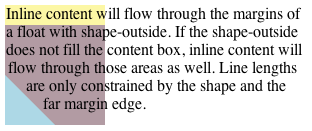
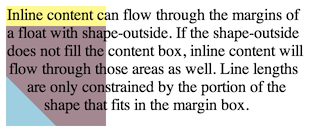
[css-shapes] remove furthest margin constraint

Changed region(s): [[0.0, 0.0305, 0.9808, 0.9771], [0.0865, 0.7328, 0.1154, 0.7939], [0.1442, 0.8855, 0.1731, 0.916]]

diff --git a/css-shapes/Overview.html b/css-shapes/Overview.html
@@ -12,7 +12,7 @@
    rel=dcterms.rights>
   <meta content="CSS Shapes Module Level 1" name=dcterms.title>
   <meta content=text name=dcterms.type>
-  <meta content=2013-07-19 name=dcterms.date>
+  <meta content=2013-09-10 name=dcterms.date>
   <meta content="Vincent Hardy" name=dcterms.creator>
   <meta content="Rossen Atanassov" name=dcterms.creator>
   <meta content="Alan Stearns" name=dcterms.creator>
@@ -51,7 +51,8 @@
 
    <h1 id=css-shapes-module>CSS Shapes Module Level 1</h1>
 
-   <h2 class="no-num no-toc" id=longstatus-date>Editor's Draft 19 July 2013</h2>
+   <h2 class="no-num no-toc" id=longstatus-date>Editor's Draft 10 September
+    2013</h2>
 
    <dl>
     <dt>This version:
@@ -100,10 +101,11 @@
      …</var></kbd>” (<a
      href="http://lists.w3.org/Archives/Public/www-style/"
      rel=discussion>archives</a>)
-     
-     <dt>Test Suite:</dt>
-     <dd><a href="http://test.csswg.org/suites/css3-shapes/nightly-unstable/">http://test.csswg.org/suites/css3-regions/nightly-unstable/</a></dd>
-     
+
+    <dt>Test Suite:
+
+    <dd><a
+     href="http://test.csswg.org/suites/css3-shapes/nightly-unstable/">http://test.csswg.org/suites/css3-regions/nightly-unstable/</a>
    </dl>
    <!--begin-copyright-->
    <p class=copyright><a
@@ -293,12 +295,8 @@
   <p> When a shape is used to define a <a href="#float-area">float area</a>,
    the shape is clipped to the float's margin box. In other words, a shape
    can only ever reduce a <a href="#float-area">float area</a>, not increase
-   it. When a shape reduces a <a href="#float-area">float area</a> such that
-   a line box that would be normally be affected by the float would not
-   intersect the <a href="#float-area">float area</a> at all, the available
-   space for the line box is constrained by the farthest margin edge of the
-   float. For a left float this would be the left margin edge, and for a
-   right float this would be the right margin edge.
+   it. A reduced float area may have no effect on some line boxes that would
+   normally be affected by the float.
 
   <div class=example>
    <p> In the following example the left and right floating <code
@@ -351,8 +349,7 @@
   <div class=example>
    <p> A shape with no extent will create a <a href="#float-area">float
     area</a> with no extent. The shape below applied to a left float will
-    allow inline content to flow through the float's box, but the line boxes
-    will be constrained by the float's left margin edge.
+    allow inline content to flow through the float's box.
 
    <p>
 
@@ -380,7 +377,7 @@
    class=singleImgExample src="images/float-margin-example.png">
    <p> The next picture shows a possible result if two of these floats were
     stacked next to each other.</p>
-   <img alt="Stacking two floats to show far margin edge constraint"
+   <img alt="Stacking two floats with a small shape-outside"
    class=singleImgExample src="images/stacked-float-example.png"></div>
 
   <h3 id=basic-shapes-from-svg-syntax><span class=secno>3.2. </span>Basic
@@ -1030,20 +1027,19 @@
    <dt id=CSS3VAL>[CSS3VAL]
 
    <dd>Håkon Wium Lie; Tab Atkins; Elika J. Etemad. <a
-    href="http://www.w3.org/TR/2013/CR-css3-values-20130404/"><cite>CSS
-    Values and Units Module Level 3.</cite></a> 4 April 2013. W3C Candidate
+    href="http://www.w3.org/TR/2013/CR-css3-values-20130730/"><cite>CSS
+    Values and Units Module Level 3.</cite></a> 30 July 2013. W3C Candidate
     Recommendation. (Work in progress.) URL: <a
-    href="http://www.w3.org/TR/2013/CR-css3-values-20130404/">http://www.w3.org/TR/2013/CR-css3-values-20130404/</a>
+    href="http://www.w3.org/TR/2013/CR-css3-values-20130730/">http://www.w3.org/TR/2013/CR-css3-values-20130730/</a>
    </dd>
    <!---->
 
    <dt id=HTML5>[HTML5]
 
-   <dd>Ian Hickson. <a
-    href="http://www.w3.org/TR/2012/CR-html5-20121217/"><cite>HTML5.</cite></a>
-    17 December 2012. W3C Candidate Recommendation. (Work in progress.) URL:
-    <a
-    href="http://www.w3.org/TR/2012/CR-html5-20121217/">http://www.w3.org/TR/2012/CR-html5-20121217/</a>
+   <dd>Robin Berjon; et al. <a
+    href="http://www.w3.org/TR/2013/CR-html5-20130806/"><cite>HTML5.</cite></a>
+    6 August 2013. W3C Candidate Recommendation. (Work in progress.) URL: <a
+    href="http://www.w3.org/TR/2013/CR-html5-20130806/">http://www.w3.org/TR/2013/CR-html5-20130806/</a>
    </dd>
    <!---->
 
@@ -1244,9 +1240,6 @@
    <li>Change float positioning to be unaffected by shape-outside
 
    <li>Shapes on floats clipped to float's margin box
-
-   <li>Inline content constrained to at least the float's farthest margin
-    edge
   </ul>
 
   <h3 class=no-num id=since-may-3rd-2012>Since <a

diff --git a/css-shapes/Overview.src.html b/css-shapes/Overview.src.html
@@ -171,20 +171,9 @@ href="http://www.w3.org/TR/2012/WD-css3-exclusions-20120503/"
       a shape can only ever reduce 
       a <span>float area</span>, 
       not increase it. 
-      When a shape reduces 
-      a <span>float area</span> such that 
-      a line box that would be normally 
-      be affected by the float 
-      would not intersect 
-      the <span>float area</span> at all, 
-      the available space 
-      for the line box is constrained 
-      by the farthest margin edge 
-      of the float. 
-      For a left float this would be 
-      the left margin edge, 
-      and for a right float this would be 
-      the right margin edge.
+      A reduced float area may have no effect 
+      on some line boxes 
+      that would normally be affected by the float. 
     </p> 
 
       <div class="example">
@@ -245,10 +234,7 @@ href="http://www.w3.org/TR/2012/WD-css3-exclusions-20120503/"
           a <span>float area</span> with no extent. 
           The shape below applied to a left float 
           will allow inline content 
-          to flow through the float's box, 
-          but the line boxes 
-          will be constrained 
-          by the float's left margin edge.
+          to flow through the float's box.
         <p>
 <pre><code class="css">
       shape-outside: rectangle(0,0,0%,0%);
@@ -273,7 +259,7 @@ href="http://www.w3.org/TR/2012/WD-css3-exclusions-20120503/"
         <p>
           The next picture shows a possible result if two of these floats were stacked next to each other.
         </p>
-        <img class="singleImgExample" src="images/stacked-float-example.png" alt="Stacking two floats to show far margin edge constraint"/>
+        <img class="singleImgExample" src="images/stacked-float-example.png" alt="Stacking two floats with a small shape-outside"/>
       </div>
 
       <h3 id="basic-shapes-from-svg-syntax">Basic Shapes</h3>
@@ -781,7 +767,6 @@ href="http://www.w3.org/TR/2012/WD-css3-exclusions-20120503/"
           <li>Change initial value of shape-image-threshold to 0.0</li>
           <li>Change float positioning to be unaffected by shape-outside</li>
           <li>Shapes on floats clipped to float's margin box</li>
-          <li>Inline content constrained to at least the float's farthest margin edge</li>
       </ul>
 
       <h3 class="no-num" >Since <a href="http://www.w3.org/TR/2012/WD-css3-exclusions-20120503/">May 3rd 2012</a></h3>

diff --git a/css-shapes/examples/stacked-float-example.html b/css-shapes/examples/stacked-float-example.html
@@ -6,15 +6,15 @@
   <!-- lots of hacks to get this to work with the old shape positioning -->
   <style>
     body {
-      width: 300px;
+      width: 250px;
     }
     .shape {
       float: left;
       width: 100px;
-      height: 120px;
+      height: 50px;
       background-color: lightblue;
-      -webkit-shape-outside: polygon(1px 0px, 1px 70px, 50px 120px, 0px 120px);
-      -webkit-clip-path: polygon(0px 0px, 0px 70px, 50px 120px, 0px 120px);
+      -webkit-shape-outside: polygon(0px 0px, 50px 50px, 0px 50px);
+      -webkit-clip-path: polygon(0px 0px, 50px 50px, 0px 50px);
     }
     p {
       margin: 0;
@@ -35,11 +35,18 @@
       z-index: -1;
     }
     .first {
-      -webkit-shape-outside: polygon(1px 0px, 1px 70px, 50px 119px, 100px 120px, 0px 120px);
-      -webkit-clip-path: polygon(0px 0px, 0px 70px, 50px 120px, 0px 120px);      
+      height: 120px;
+      -webkit-shape-outside: polygon(0px 70px, 50px 120px, 0px 120px);
+      -webkit-clip-path: polygon(0px 70px, 50px 120px, 0px 120px);      
     }
     .second {
       left: 108px;
+    }
+    .second.margin-area {
+      top: 28px;
+    }
+    .second.content-area {
+      top: 48px;
     }
   </style>
 </head>
@@ -49,7 +56,6 @@
   <div class="second margin-area"></div>
   <div class="second content-area"></div>
   <div class="first shape"></div>
-  <div class="shape"></div>
-  <p>When floats with shapes are stacked, the far margin edge constraint keeps inline content from interacting with more than one float area per side.</p>
+  <p>When floats with shapes are stacked, the margin box is used for the stacking. Other inline content is only constrained by the shapes themselves and will run through the open content area and <div class="shape"></div> margins outside the shape.</p>
 </body>
 </html>

diff --git a/css-shapes/examples/float-margin-example.html b/css-shapes/examples/float-margin-example.html
@@ -40,6 +40,6 @@
   <div class="margin-area"></div>
   <div class="content-area"></div>
   <div class="shape"></div>
-  <p>Inline content will flow through the margins of a float with shape-outside. If the shape-outside does not fill the content box, inline content will flow through those areas as well. Line lengths are only constrained by the shape and the far margin edge.</p>
+  <p>Inline content can flow through the margins of a float with shape-outside. If the shape-outside does not fill the content box, inline content will flow through those areas as well. Line lengths are only constrained by the portion of the shape that fits in the margin box.</p>
 </body>
 </html>
